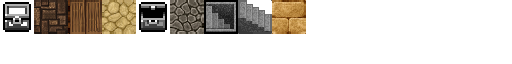
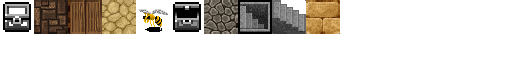
Added monster spawn and placeholder image. Completed spawn milestone.

Changed region(s): [[0.25, 0.0, 0.6875, 0.5312]]

diff --git a/Quest/src/com/undeadstudio/quest/util/Assets.java b/Quest/src/com/undeadstudio/quest/util/Assets.java
@@ -4,12 +4,10 @@ import com.badlogic.gdx.Gdx;
 import com.badlogic.gdx.assets.AssetDescriptor;
 import com.badlogic.gdx.assets.AssetErrorListener;
 import com.badlogic.gdx.assets.AssetManager;
-import com.badlogic.gdx.graphics.Texture;
 import com.badlogic.gdx.graphics.Texture.TextureFilter;
 import com.badlogic.gdx.graphics.g2d.BitmapFont;
 import com.badlogic.gdx.graphics.g2d.TextureAtlas;
 import com.badlogic.gdx.graphics.g2d.TextureAtlas.AtlasRegion;
-import com.badlogic.gdx.graphics.g2d.TextureRegion;
 import com.badlogic.gdx.utils.Disposable;
 
 public class Assets implements Disposable, AssetErrorListener {
@@ -17,9 +15,7 @@ public class Assets implements Disposable, AssetErrorListener {
 	public static final String TAG = Assets.class.getName();
 	public static final Assets instance = new Assets();
 	public AssetManager assetManager;
-	public Texture playerTexture;
 
-	public AssetSpriteSheet spriteSheet;
 	public AssetFonts fonts;
 	public AssetFloor floor;
 	public AssetWall wall;
@@ -28,6 +24,7 @@ public class Assets implements Disposable, AssetErrorListener {
 	public AssetChest chest;
 	public AssetStairsUp stairsUp;
 	public AssetStairsDown stairsDown;
+	public AssetMonster monster;
 
 	private void Assets() {
 	}
@@ -48,10 +45,7 @@ public class Assets implements Disposable, AssetErrorListener {
 
 		TextureAtlas atlas = assetManager.get(Constants.TEXTURE_ATLAS_OBJECTS);
 
-		spriteSheet = new AssetSpriteSheet();
 		fonts = new AssetFonts();
-		playerTexture = new Texture(
-				Gdx.files.internal("data/testcharacter.png"));
 
 		chest = new AssetChest(atlas);
 		floor = new AssetFloor(atlas);
@@ -60,6 +54,7 @@ public class Assets implements Disposable, AssetErrorListener {
 		corridor = new AssetCorridor(atlas);
 		stairsUp = new AssetStairsUp(atlas);
 		stairsDown = new AssetStairsDown(atlas);
+		monster = new AssetMonster(atlas);
 	}
 
 	@Override
@@ -73,27 +68,9 @@ public class Assets implements Disposable, AssetErrorListener {
 	@Override
 	public void dispose() {
 		assetManager.dispose();
-		playerTexture.dispose();
 		fonts.defaultSmall.dispose();
 		fonts.defaultNormal.dispose();
 		fonts.defaultBig.dispose();
-	}
-
-	public class AssetSpriteSheet {
-
-		Texture tex;
-		TextureRegion[][] reg;
-
-		public AssetSpriteSheet() {
-
-		}
-
-		public TextureRegion[][] getRegions(String filename) {
-			tex = new Texture(Gdx.files.internal(filename));
-			reg = TextureRegion.split(tex, 32, 32);
-			return reg;
-		}
-
 	}
 
 	public class AssetFonts {
@@ -179,6 +156,15 @@ public class Assets implements Disposable, AssetErrorListener {
 		public AssetStairsDown(TextureAtlas atlas) {
 			reg = atlas.findRegion("stairsdown");
 		}
+	}
+
+	public class AssetMonster {
+		public final AtlasRegion reg;
+
+		public AssetMonster(TextureAtlas atlas) {
+			reg = atlas.findRegion("monster");
+		}
+
 	}
 
 }

diff --git a/Quest/src/com/undeadstudio/quest/map/Level.java b/Quest/src/com/undeadstudio/quest/map/Level.java
@@ -3,11 +3,11 @@ package com.undeadstudio.quest.map;
 import com.badlogic.gdx.Gdx;
 import com.badlogic.gdx.graphics.Color;
 import com.badlogic.gdx.graphics.g2d.SpriteBatch;
-import com.badlogic.gdx.math.MathUtils;
 import com.badlogic.gdx.math.Vector2;
 import com.badlogic.gdx.utils.Array;
 import com.undeadstudio.quest.dungeon.CaveGen;
 import com.undeadstudio.quest.entities.AbstractEntity;
+import com.undeadstudio.quest.entities.Monster;
 import com.undeadstudio.quest.tiles.Chest;
 import com.undeadstudio.quest.tiles.Corridor;
 import com.undeadstudio.quest.tiles.Door;
@@ -48,6 +48,7 @@ public class Level {
 	Array<Corridor> corridors = new Array<Corridor>();
 	Array<Chest> chests = new Array<Chest>();
 	Array<Tile> stairs = new Array<Tile>();
+	Array<AbstractEntity> monsters = new Array<AbstractEntity>();
 
 	public Level() {
 		init();
@@ -70,9 +71,11 @@ public class Level {
 	}
 
 	public void sprinkleGoodies() {
-		sprinkleChests();
-
 		sprinkleStairs();
+
+		sprinkleChests(10);
+
+		sprinkleMonsters(10);
 
 	}
 
@@ -87,15 +90,24 @@ public class Level {
 		stairs.add((StairsDown) entity);
 	}
 
-	public void sprinkleChests() {
+	public void sprinkleChests(int number) {
 
-		for (int x = 0; x < 10; x++) {
+		for (int x = 0; x < number; x++) {
 			AbstractEntity entity = null;
 			Vector2 freePlace = findFreePlace(Constants.BLOCKTYPE_FLOOR);
 			entity = new Chest(freePlace.x, freePlace.y);
 			chests.add((Chest) entity);
 		}
 
+	}
+
+	public void sprinkleMonsters(int number) {
+		for (int x = 0; x < number; x++) {
+			AbstractEntity entity = null;
+			Vector2 freePlace = findFreePlace(Constants.BLOCKTYPE_FLOOR);
+			entity = new Monster(freePlace.x, freePlace.y);
+			monsters.add((Monster) entity);
+		}
 	}
 
 	public void convert(int[][] map) {
@@ -141,6 +153,10 @@ public class Level {
 	}
 
 	public void render(SpriteBatch batch) {
+
+		/*
+		 * Draw the bottom tiles first.
+		 */
 		for (Floor floor : floors) {
 			floor.render(batch);
 		}
@@ -157,6 +173,10 @@ public class Level {
 			corridor.render(batch);
 		}
 
+		/*
+		 * Then draw the static entities.
+		 */
+
 		batch.setColor(Color.toFloatBits(255, 200, 100, 255));
 		for (Chest chest : chests) {
 			chest.render(batch);
@@ -166,6 +186,14 @@ public class Level {
 			tile.render(batch);
 
 		batch.setColor(Color.WHITE);
+
+		/*
+		 * Now draw the dynamic entities.
+		 */
+
+		for (AbstractEntity entity : monsters) {
+			entity.render(batch);
+		}
 
 	}
 
@@ -192,6 +220,10 @@ public class Level {
 
 		for (Tile tile : stairs) {
 			tile.update(deltaTime);
+		}
+
+		for (AbstractEntity entity : monsters) {
+			entity.update(deltaTime);
 		}
 	}
 

diff --git a/Quest/src/com/undeadstudio/quest/entities/Monster.java b/Quest/src/com/undeadstudio/quest/entities/Monster.java
@@ -1,0 +1,42 @@
+package com.undeadstudio.quest.entities;
+
+import com.badlogic.gdx.graphics.g2d.SpriteBatch;
+import com.badlogic.gdx.graphics.g2d.TextureRegion;
+import com.undeadstudio.quest.util.Assets;
+
+public class Monster extends AbstractEntity {
+
+	private TextureRegion monsterRegion;
+
+	public Monster(float x, float y) {
+		this.position.x = x;
+		this.position.y = y;
+		init();
+	}
+
+	private void init() {
+		monsterRegion = Assets.instance.monster.reg;
+	}
+
+	@Override
+	public void update(float deltaTime) {
+		// TODO Auto-generated method stub
+
+	}
+
+	@Override
+	public void render(SpriteBatch batch) {
+		TextureRegion reg = monsterRegion;
+		batch.draw(reg.getTexture(), position.x, position.y, origin.x,
+				origin.y, dimension.x, dimension.y, scale.x, scale.y, rotation,
+				reg.getRegionX(), reg.getRegionY(), reg.getRegionWidth(),
+				reg.getRegionHeight(), false, false);
+	}
+
+	@Override
+	public void interact(AbstractEntity entity) {
+		// TODO Auto-generated method stub
+
+	}
+
+}
